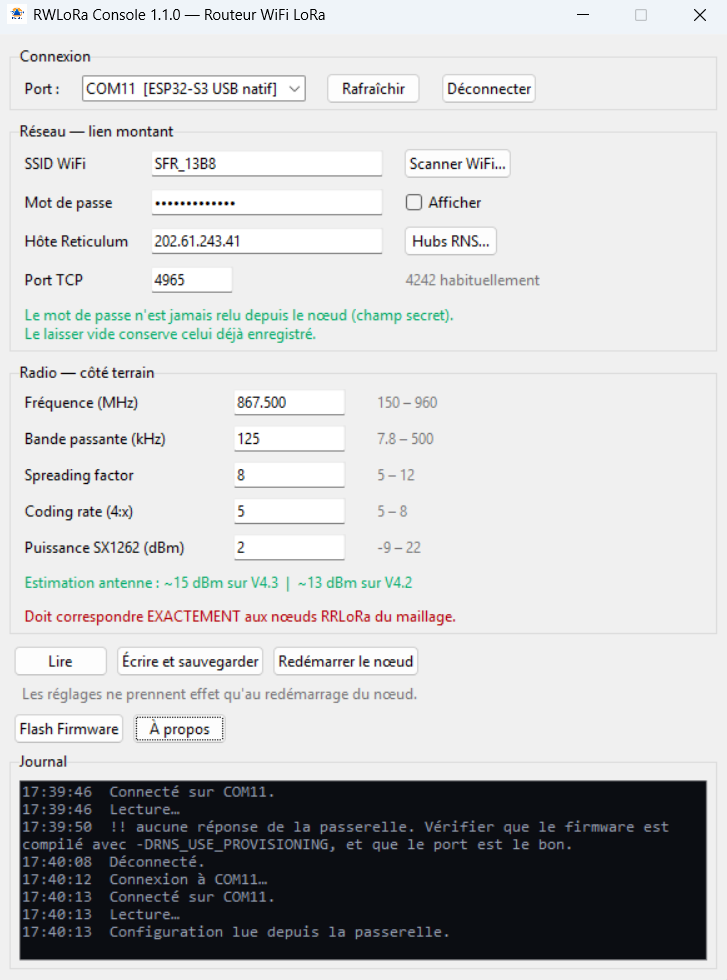
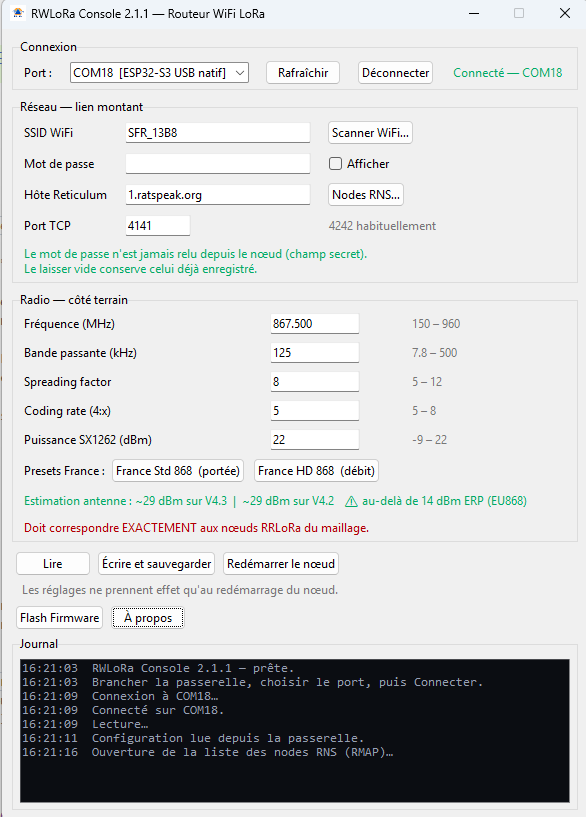
RWLora v2.1.1 by F1GBD

diff --git a/RWLora/README.md b/RWLora/README.md
@@ -149,11 +149,15 @@ l'écosystème (RNSnodes_lister, TCQ).
 Le mot de passe WiFi n'est jamais relu depuis la passerelle : il est écrit en
 champ secret. Le laisser vide conserve celui déjà enregistré.
 
+<div align="center">
+<img src="images/RWLora_conf_screen.png" alt="RWLoRa configurateur" width="640">
+</div>
+
 ## Démarrer
 
 <div align="center">
 
-## 📥 [Télécharger la dernière version de RWLoRa](https://github.com/f1gbd/F1GBD/releases/download/rwlora-v2.1.0/RWLoRa-v2.1.0-win64.7z)
+## 📥 [Télécharger la dernière version de RWLoRa](https://github.com/f1gbd/F1GBD/releases/download/rwlora-v2.1.1/RWLoRa-v2.1.1-win64.7z)
 
 ### **Flasheur et firmware inclus**
 
